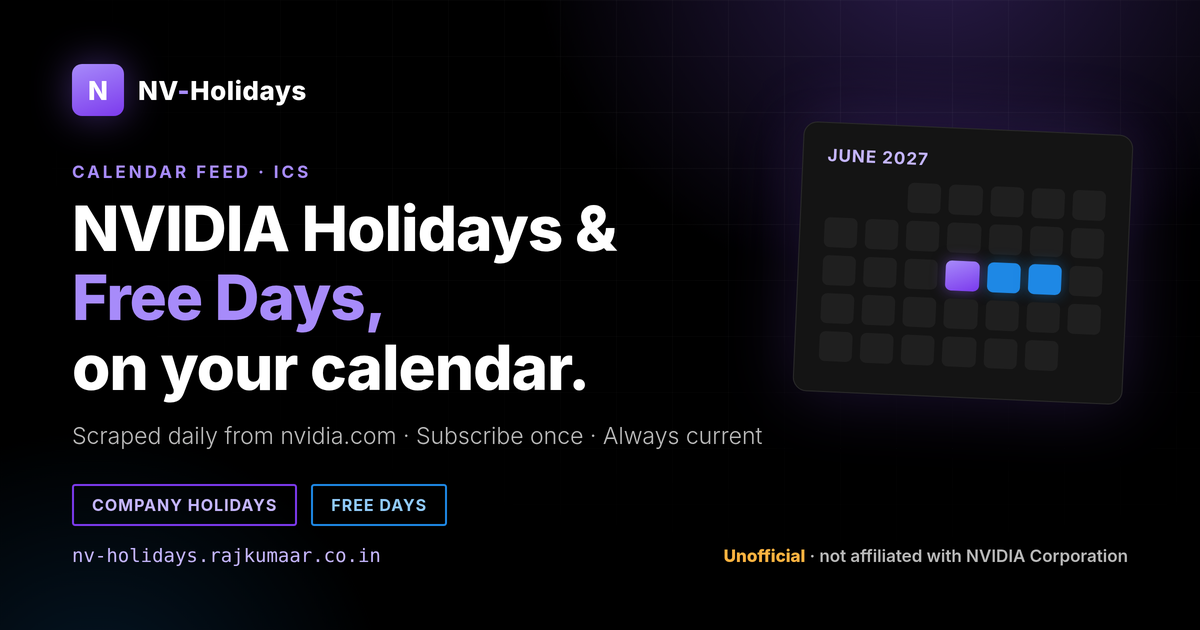
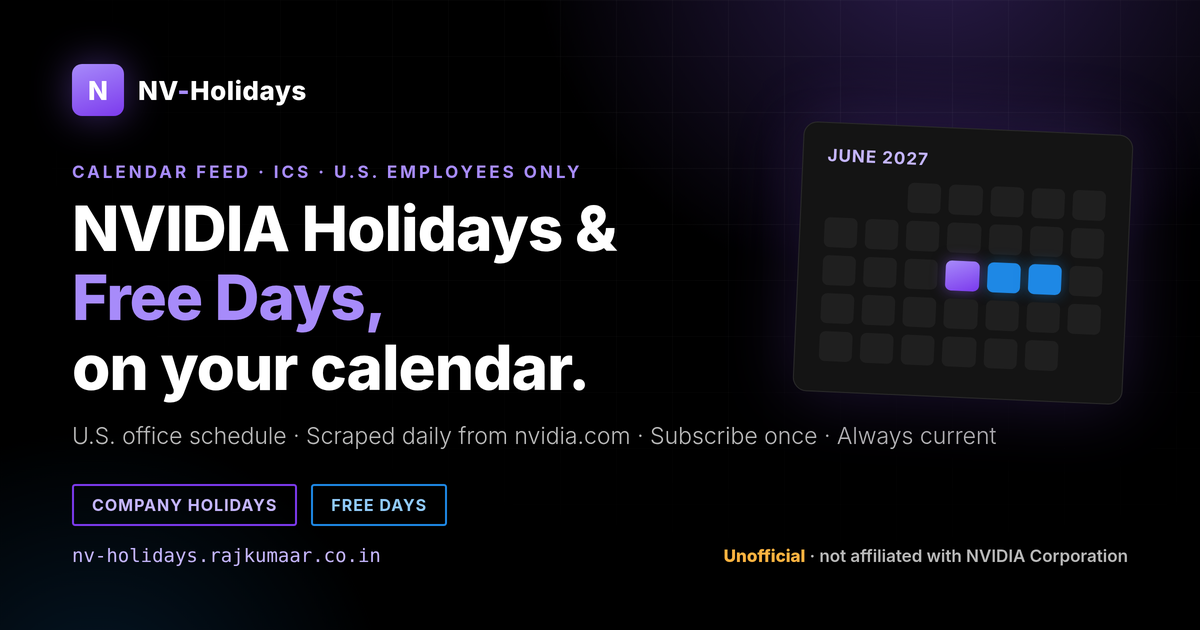
docs+feed: make U.S.-employees-only scope explicit everywhere
- X-WR-CALNAME gains '(US)', CALDESC states US-only + intl disclaimer,
  event tags now 'NVIDIA US ...'
- Landing page: bold US-only line in hero, 'U.S. offices' schedule
  heading + explanatory note, US-only in title/OG/Twitter/JSON-LD
- README: explicit U.S.-employees-only scope note
- OG banner re-rendered with 'U.S. Employees Only' kicker

Changed region(s): [[0.0617, 0.6635, 0.6783, 0.7238], [0.2775, 0.2413, 0.4625, 0.3016], [0.7092, 0.6635, 0.8325, 0.7238]]

diff --git a/docs/index.html b/docs/index.html
@@ -3,9 +3,9 @@
 <head>
 <meta charset="UTF-8">
 <meta name="viewport" content="width=device-width, initial-scale=1.0">
-<title>NV-Holidays — NVIDIA Holidays &amp; Free Days Calendar Feed (ICS, auto-updated)</title>
-<meta name="description" content="Free, unofficial ICS calendar feed of NVIDIA US holidays and Free Days (2026–2027), auto-refreshed daily from nvidia.com. One-click subscribe on iPhone, Mac, Google Calendar and Android. Not affiliated with NVIDIA.">
-<meta name="keywords" content="NVIDIA holidays, NVIDIA free days, NVDA holidays 2026, NVDA holidays 2027, NVIDIA calendar, ICS feed, subscribed calendar, company holidays">
+<title>NV-Holidays — NVIDIA US Holidays &amp; Free Days Calendar Feed (ICS, auto-updated)</title>
+<meta name="description" content="Free, unofficial ICS calendar feed of NVIDIA holidays and Free Days for U.S. employees (2026-2027), auto-refreshed daily from nvidia.com. U.S. schedule only - international offices differ. One-click subscribe on iPhone, Mac, Google Calendar and Android. Not affiliated with NVIDIA.">
+<meta name="keywords" content="NVIDIA holidays USA, NVIDIA US holidays, NVIDIA free days, NVDA holidays 2026, NVDA holidays 2027, NVIDIA US office calendar, ICS feed, subscribed calendar">
 <meta name="author" content="Rajkumar">
 <meta name="robots" content="index, follow">
 <meta name="theme-color" content="#000000">
@@ -17,7 +17,7 @@
 <meta property="og:type" content="website">
 <meta property="og:site_name" content="NV-Holidays">
 <meta property="og:title" content="NVIDIA Holidays &amp; Free Days — auto-updating calendar feed">
-<meta property="og:description" content="Every NVIDIA US holiday and Free Day on your calendar, refreshed daily. One-click subscribe: iPhone, Mac, Google Calendar.">
+<meta property="og:description" content="Every NVIDIA holiday and Free Day for U.S. employees, on your calendar, refreshed daily. U.S. schedule only - international offices differ. One-click subscribe.">
 <meta property="og:url" content="https://nv-holidays.rajkumaar.co.in/">
 <meta property="og:image" content="https://nv-holidays.rajkumaar.co.in/banner.png">
 <meta property="og:image:width" content="1200">
@@ -27,7 +27,7 @@
 <!-- Twitter / X -->
 <meta name="twitter:card" content="summary_large_image">
 <meta name="twitter:title" content="NVIDIA Holidays &amp; Free Days — auto-updating calendar feed">
-<meta name="twitter:description" content="Every NVIDIA US holiday and Free Day on your calendar, refreshed daily. One-click subscribe.">
+<meta name="twitter:description" content="Every NVIDIA holiday and Free Day for U.S. employees, refreshed daily. U.S. schedule only - international offices differ. One-click subscribe.">
 <meta name="twitter:image" content="https://nv-holidays.rajkumaar.co.in/banner.png">
 <meta name="twitter:image:alt" content="NV-Holidays — NVIDIA holidays and Free Days calendar feed">
 
@@ -39,7 +39,7 @@
   "name": "NV-Holidays",
   "alternateName": "NVIDIA Holidays & Free Days Calendar Feed",
   "url": "https://nv-holidays.rajkumaar.co.in/",
-  "description": "Unofficial, community-maintained ICS calendar feed of NVIDIA US holidays and Free Days, scraped daily from NVIDIA's public time-off page.",
+  "description": "Unofficial, community-maintained ICS calendar feed of NVIDIA holidays and Free Days for U.S. employees. U.S. schedule only - international offices observe different holidays. Scraped daily from NVIDIA's public time-off page.",
   "applicationCategory": "UtilitiesApplication",
   "operatingSystem": "iOS, macOS, Android, Web",
   "offers": { "@type": "Offer", "price": "0", "priceCurrency": "USD" },
@@ -144,6 +144,8 @@
   section { padding: 64px 0; }
   .section-label { color: var(--accent); font-size: 14px; font-weight: 700; text-transform: uppercase; margin-bottom: 8px; }
   h2 { font-size: 24px; font-weight: 700; line-height: 1.25; margin-bottom: 24px; }
+  .usnote { max-width: 720px; color: var(--gray-300); font-size: 15px; margin: -8px 0 24px; }
+  .usnote code { font-family: ui-monospace, Menlo, Consolas, monospace; font-size: 13px; }
   .legend { display: flex; gap: 24px; margin-bottom: 24px; font-size: 14px; color: var(--gray-300); }
   .dot { display: inline-block; width: 10px; height: 10px; border-radius: 50%; margin-right: 8px; }
   .dot.holiday { background: var(--accent); }
@@ -211,9 +213,10 @@
   <div class="container">
     <div class="kicker">Calendar Feed</div>
     <h1>NVIDIA Holidays &amp; Free Days, on your calendar. Automatically.</h1>
-    <p class="lede">Every US company holiday and Free Day from NVIDIA's official
-      <a href="https://www.nvidia.com/en-us/benefits/time-off/">time-off page</a>,
-      republished as a subscribable ICS feed and re-scraped every day.</p>
+    <p class="lede">Every company holiday and Free Day from NVIDIA's official
+      <a href="https://www.nvidia.com/en-us/benefits/time-off/">U.S. time-off page</a>,
+      republished as a subscribable ICS feed and re-scraped every day.
+      <strong>U.S. employees only</strong> — international offices observe different holidays.</p>
     <div class="cta-row">
       <a class="btn" id="apple-btn" href="#">Add to Apple Calendar</a>
       <a class="btn" id="google-btn" href="#" target="_blank" rel="noopener">Add to Google Calendar</a>
@@ -226,7 +229,10 @@
 <section id="calendar">
   <div class="container">
     <div class="section-label">The Schedule</div>
-    <h2>Upcoming days off</h2>
+    <h2>Upcoming days off — U.S. offices</h2>
+    <p class="usnote">These are the days NVIDIA's <strong>U.S.</strong> employees are off (Santa Clara HQ schedule,
+    <code>America/Los_Angeles</code>). NVIDIA teams in India, Israel, the EU and elsewhere observe
+    local holidays instead — this feed intentionally excludes them.</p>
     <div class="legend">
       <span><span class="dot holiday"></span>Company / federal holiday</span>
       <span><span class="dot free"></span>Free Day</span>

diff --git a/assets/banner-src.html b/assets/banner-src.html
@@ -79,9 +79,9 @@
     <div class="logo">N</div>
     <div class="name">NV<em>-</em>Holidays</div>
   </div>
-  <div class="kicker">Calendar Feed · ICS</div>
+  <div class="kicker">Calendar Feed · ICS · U.S. Employees Only</div>
   <h1>NVIDIA Holidays &amp;<br><span class="g">Free Days,</span><br>on your calendar.</h1>
-  <div class="sub">Scraped daily from nvidia.com · Subscribe once · Always current</div>
+  <div class="sub">U.S. office schedule · Scraped daily from nvidia.com · Subscribe once · Always current</div>
   <div class="chips">
     <div class="chip h">Company Holidays</div>
     <div class="chip f">Free Days</div>

diff --git a/internal/ics/ics.go b/internal/ics/ics.go
@@ -10,8 +10,8 @@ import (
 )
 
 const (
-	prodID   = "-//rajkumaar23//NVIDIA Holidays & Free Days//EN"
-	calendar = "NVIDIA Holidays & Free Days"
+	prodID   = "-//rajkumaar23//NVIDIA US Holidays & Free Days//EN"
+	calendar = "NVIDIA Holidays & Free Days (US)"
 	// NVIDIA US HQ timezone; all-day events are timezone-free but clients
 	// use this hint for display and reminder defaults.
 	wrTimezone = "America/Los_Angeles"
@@ -41,7 +41,7 @@ func Generate(holidays []model.Holiday) string {
 	line(&b, "CALSCALE", "GREGORIAN")
 	line(&b, "METHOD", "PUBLISH")
 	line(&b, "X-WR-CALNAME", calendar)
-	line(&b, "X-WR-CALDESC", "US holidays and Free Days published by NVIDIA, auto-refreshed daily.")
+	line(&b, "X-WR-CALDESC", "US-only schedule for NVIDIA U.S. employees, published by NVIDIA and auto-refreshed daily. International offices observe different holidays. Unofficial feed, not affiliated with NVIDIA.")
 	line(&b, "X-WR-TIMEZONE", wrTimezone)
 	fmt.Fprintf(&b, "REFRESH-INTERVAL;VALUE=DURATION:%s\r\n", refreshTTL)
 	fmt.Fprintf(&b, "X-PUBLISHED-TTL:%s\r\n", refreshTTL)
@@ -55,10 +55,10 @@ func Generate(holidays []model.Holiday) string {
 
 func writeEvent(b *strings.Builder, h model.Holiday) {
 	color := colorHoliday
-	tag := "NVIDIA company holiday"
+	tag := "NVIDIA US company holiday"
 	if h.IsFreeDay() {
 		color = colorFreeDay
-		tag = "NVIDIA Free Day"
+		tag = "NVIDIA US Free Day"
 	}
 	b.WriteString("BEGIN:VEVENT\r\n")
 	line(b, "UID", h.UID())

diff --git a/README.md b/README.md
@@ -3,9 +3,11 @@
 > **⚠ Unofficial community project — not affiliated with, endorsed by, or sponsored by
 > NVIDIA Corporation.** NVIDIA® is a registered trademark of NVIDIA Corporation.
 > The data source is NVIDIA's public benefits page; if the two ever disagree, NVIDIA wins.
+> **Scope: U.S. employees only.** This mirrors NVIDIA's U.S. (Santa Clara HQ) schedule —
+> international offices observe local holidays that are intentionally NOT included.
 
-> A subscribable, always-fresh **ICS calendar feed** of NVIDIA's US company holidays
-> and Free Days — scraped daily from NVIDIA's official
+> A subscribable, always-fresh **ICS calendar feed** of NVIDIA's U.S. company holidays
+> and Free Days **for U.S. employees** — scraped daily from NVIDIA's official
 > [time-off page](https://www.nvidia.com/en-us/benefits/time-off/) and published
 > via GitHub Pages. No API keys, no maintenance, one-time setup.
 
@@ -42,6 +44,7 @@ Any calendar client that supports subscribing to an ICS URL works — paste the 
 
 | | |
 |---|---|
+| **Scope** | **U.S. employees only** — U.S. federal/company holidays + Free Days (HQ schedule) |
 | **Coverage** | Every year currently published by NVIDIA (e.g. 2026 + 2027) |
 | **Events** | Company/federal holidays (🟣 `#7E57C2`) and Free Days (🔵 `#1E88E5`) |
 | **Type** | All-day, `TRANSP:TRANSPARENT` — never blocks your availability |
